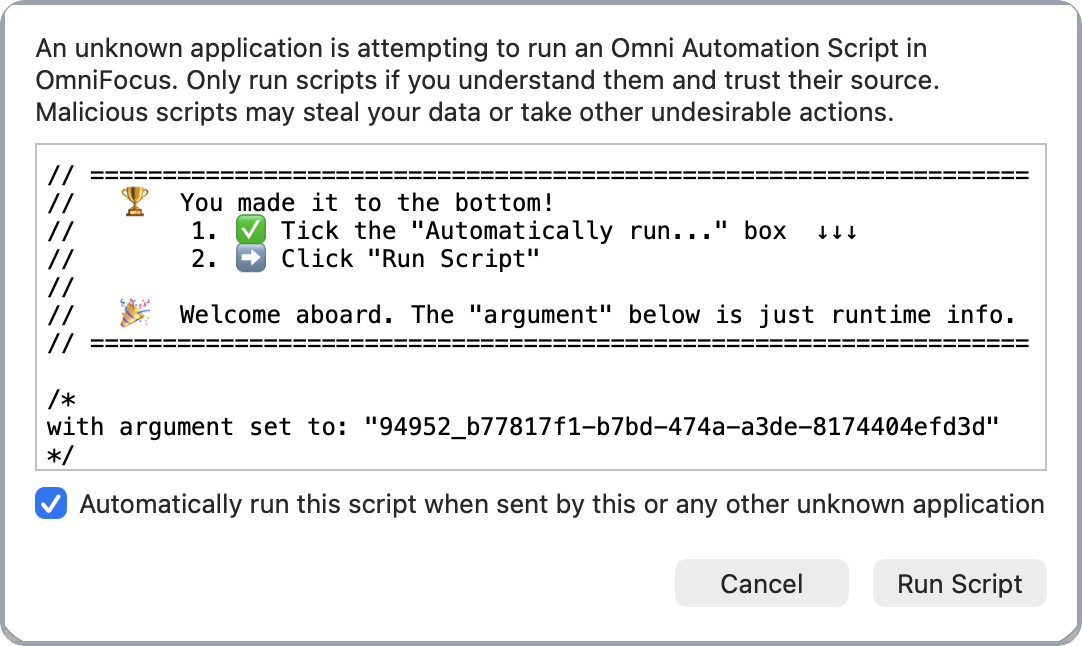
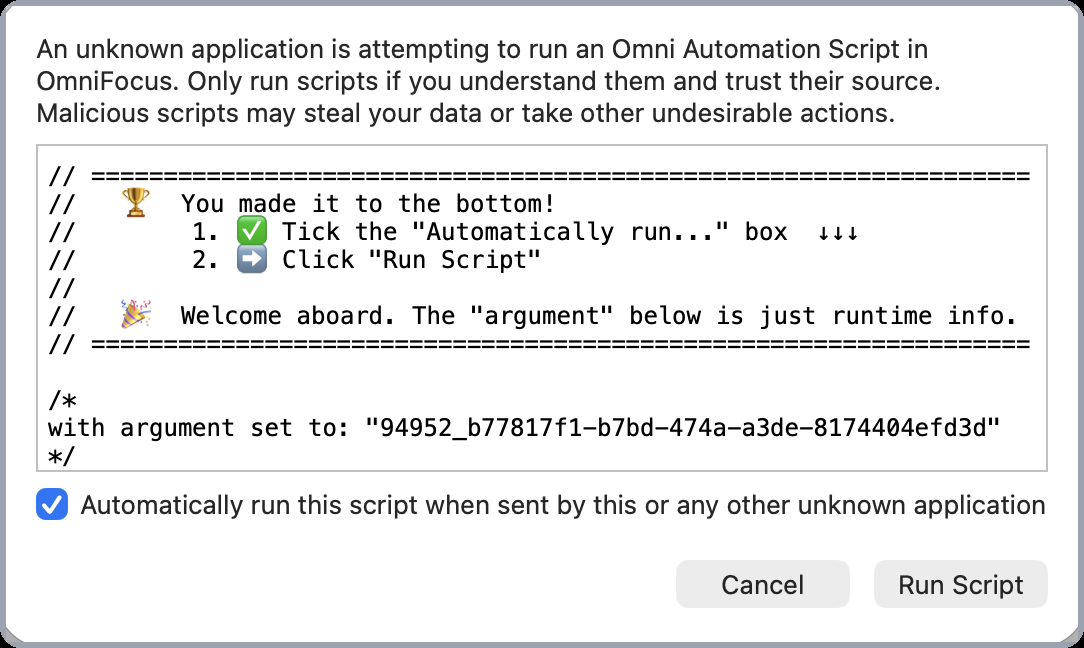
fix(docs): proper rounded screenshot border + revert wizard full-screen on mobile
Two issues from real-device testing:

1. README screenshots had a "square border with chopped corners"
   look. Cause: the previous build drew a square 5px solid
   border first, then applied a rounded clip mask — so the
   straight horizontal/vertical border edges were visible
   while the corners just got snipped at the curve. Dark
   variant also showed circle artifacts at corners from
   stroke/mask radius misalignment.

   Rebuilt from the original screenshots using a different
   approach: fill a colored rounded-rect background slightly
   larger than the screenshot, composite the screenshot
   on top with a 6px inset (so the background shows as a
   "border" on all sides), then apply a final rounded-clip
   mask. The border now follows the curve naturally — no
   straight edges, no chopped corners.

2. Wizard full-screen on mobile clipped under Safari's
   bottom tab bar — the Next button sat in the transparent
   tab-bar area, hard to tap. Also felt heavier than the
   previous bounded modal.

   Revert mobile wizard to a bounded modal: max-width 94vw,
   max-height 82dvh (dynamic viewport height, excludes
   Safari's URL/tab bars). border-radius restored to 16px,
   margin: auto centers it. Falls back to 82vh on older
   browsers without dvh support. Steps 2-3 are short enough
   to fit; step 4 (with the merger) scrolls internally,
   which is acceptable — the body has its own overflow-y.

diff --git a/docs/index.html b/docs/index.html
@@ -453,6 +453,7 @@ nav.scrolled {
   max-width: 640px;
   width: 92vw;
   max-height: 88vh;
+  max-height: 88dvh;
   color: var(--text-primary);
   font-family: var(--font-body);
   margin: auto;
@@ -794,12 +795,12 @@ nav.scrolled {
 @media (max-width: 640px) {
   .wizard {
     padding: 0;
-    max-width: 100vw;
-    width: 100vw;
-    max-height: 100vh;
-    height: 100vh;
-    border-radius: 0;
-    margin: 0;
+    max-width: 94vw;
+    width: 94vw;
+    max-height: 82vh;
+    max-height: 82dvh;
+    border-radius: 16px;
+    margin: auto;
   }
   .wizard-header { padding: 18px 20px 14px; }
   .wizard-body { padding: 18px 20px; }